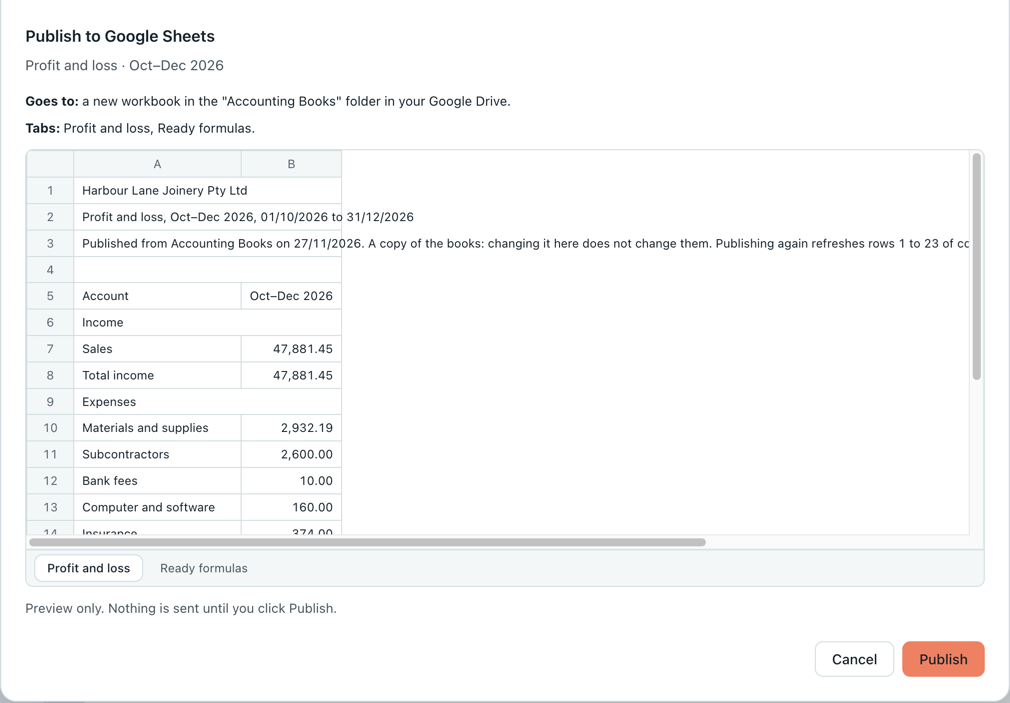
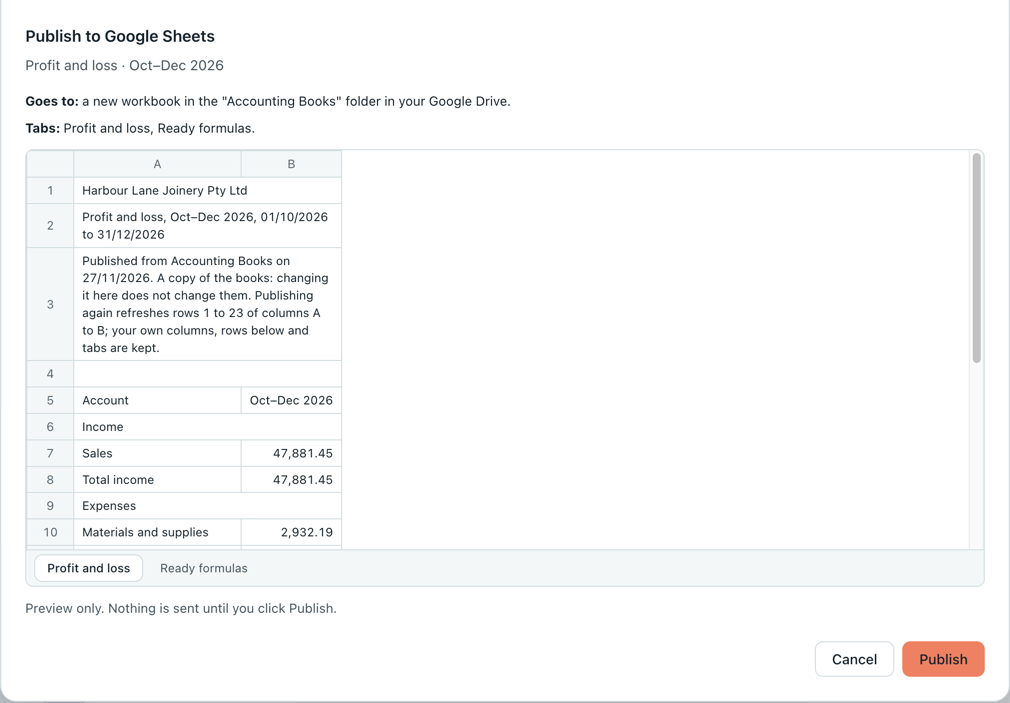
Folder 09: preview headings wrap, layout sweep opens the publish preview, records

Changed region(s): [[0.0307, 0.2987, 0.9515, 0.7767], [0.9515, 0.5078, 0.9822, 0.5377], [0.0307, 0.2987, 0.0614, 0.3286]]

diff --git a/tests/layout/layout-sweep.spec.ts b/tests/layout/layout-sweep.spec.ts
@@ -157,6 +157,14 @@ test('no page, sheet or panel breaks at any window size', async () => {
     await page.getByRole('button', { name: 'Customise' }).click();
     await page.locator('.side-panel').waitFor();
     problems.push(...(await problemsOn(page, 'customise-panel', size)));
+    await page.getByRole('button', { name: 'Customise' }).click();
+
+    // Folder 09: the publish preview, which needs no Google account.
+    await page.getByRole('button', { name: 'Publish to Google Sheets' }).click();
+    await page.getByText('Goes to: ').waitFor();
+    problems.push(...(await problemsOn(page, 'publish-sheet', size)));
+    await page.keyboard.press('Escape');
+    await page.getByRole('dialog').waitFor({ state: 'detached' });
 
     // Folder 07: the rule panel, a new account, and reconciling.
     await go(page, '#/rules');

diff --git a/src/renderer/sheets/sheets.css b/src/renderer/sheets/sheets.css
@@ -160,16 +160,18 @@
   font-size: var(--font-size-label);
 }
 
-.sheet-grid__cell--spill {
+.sheet-grid__table .sheet-grid__cell--spill {
   max-width: none;
-  overflow: visible;
+  white-space: normal;
 }
 
-/* Takes no width, so a long heading never widens column A; it runs over the empty cells. */
+/* Adds no width of its own, so a long heading never widens column A: it runs over the empty
+   cells, and wraps at the grid's edge instead of being cut off. */
 .sheet-grid__spill {
   display: block;
   width: 0;
-  overflow: visible;
+  min-width: 100%;
+  white-space: normal;
 }
 
 .ready {

diff --git a/context/progress-tracker.md b/context/progress-tracker.md
@@ -6,7 +6,7 @@ Update this file whenever the current phase, the active spec or the implementati
 
 ## Current Phase
 
-- **Folder 09, Demo 7, Google Sheets (2026-11-27): in progress** on branch `feature/09-demo-7-google-sheets`, from folder 08's `998c3ea`. The author asked for folders 09 and 10 to be finished without supervision. Google is built against an in-memory Google and a fake `fetch`; every check against real Google waits for the author's console steps in spec 106.
+- **Folder 09, Demo 7, Google Sheets (2026-11-27): built, demo not yet held** on branch `feature/09-demo-7-google-sheets`, from folder 08's `998c3ea`. Specs 105 to 120 built and committed; 121 prepared (`demo-scripts/demo-7-google-sheets.md`, not committed, at the author's request). Connect Google, publish a report or the transactions with a sheet-style preview, publish again keeping his work, ready formulas, share by person, the two-minute read-back of the accountant's edits as proposals, accept or reject, the sheet inside the app, side by side, five guides. Migrations 0013 and 0014. **Built against an in-memory Google and a fake `fetch`: every check against real Google waits for the author's console steps in spec 106.**
 - **Folder 08, Demo 6, reports and the BAS (2026-11-26): built, demo not yet held** on branch `feature/08-demo-6-reports-and-bas`, from folder 07's `8f462d7`. Specs 089 to 103 built, 104 prepared (`demo-scripts/demo-6-reports-and-bas.md`). Profit and loss, balance sheet, trial balance and the BAS worksheet, every figure opening its lines; closing and locking a quarter; CSV and PDF export; customising the profit and loss, his own columns, and My reports. Migration 0012. Impeccable passes skipped at the author's request. Committed on its branch, not pushed.
 - **Folder 07, Demo 5, rules and reconciling (2026-11-26): built, demo not yet held** on branch `feature/07-demo-5-rules-and-reconcile`, from folder 06's `f0dc650`. Specs 078 to 087 built, 088 prepared (`demo-scripts/demo-5-rules-and-reconciling.md`). Bank rules (list, editor with Test, from a line, posting by themselves on import), changing the account of posted transactions, New account and Edit, and reconciling to a statement. Migration 0011. Impeccable passes skipped at the author's request. Committed on its branch, not pushed.
 - **Folder 06, Demo 4, To review (2026-11-25): built, demo not yet held** on branch `feature/06-demo-4-to-review`, from `0a51eb3`. Specs 068 to 076 and a new 069a (match a line to an entry already in the books) are built, and 077 is prepared (`demo-scripts/demo-4-categorising.md`). The client can post a waiting bank line with an account and GST code (one, ticked, or every suggested one), match it to an entry already in the books, split it, mark a transfer between his accounts, save a From/To that fills in other lines, see suggestions from past lines, and undo the last post. Migration 0010. Nothing is committed yet. Decisions taken where the specs left room are in Follow-ups, for the author.
@@ -38,6 +38,7 @@ Update this file whenever the current phase, the active spec or the implementati
 | W02 | [Wireframe Design Context](feature-specs/W-wireframes/W02-wireframe-design-context.md) | Written from the context files. No screenshots were supplied, so there are none to check |
 | W08 | [Wireframe: Invoices and Bills](feature-specs/W-wireframes/W08-wireframe-invoices-and-bills.md), if question 1 says so | W |
 | 029 | [Demo 1: The App Opens](feature-specs/02-demo-1-the-app-opens/029-demo-1.md), skipped while the ledger core and Demo 2 were built | 02 |
+| 121 | [Demo 7](feature-specs/09-demo-7-google-sheets/121-demo-7.md) | Script with two test Google accounts; the walk driven against the in-memory Google | Prepared (demo not held, not committed) | 2026-11-27 |
 | 120 | [Guides: Google Sheets](feature-specs/09-demo-7-google-sheets/120-guide-sharing.md) | Five guides, a new Help group, seven images; two guides updated | Done | 2026-11-27 |
 | 119 | [Open Side by Side](feature-specs/09-demo-7-google-sheets/119-side-by-side.md) | Opens it in the browser and says how the Mac tiles two windows | Implemented, real-Google check waits for 106 | 2026-11-27 |
 | 118 | [Google Sheet Inside the App](feature-specs/09-demo-7-google-sheets/118-in-app-sheet.md) | Isolated view, Google pages only, setting off by default, fallback to Chrome | Implemented, sign-in check waits for 106 | 2026-11-27 |
@@ -188,6 +189,11 @@ Things found during work that are not part of the current spec. Each has an owne
 
 | Item | Found in | Due before | Status |
 |---|---|---|---|
+| **Do spec 106's Google Cloud console steps**, put the client id in `.env`, and run `npm run google:check`. Then every "not checked" item in specs 107 to 121's progress files can be run with the two test accounts | 106 | Demo 7 | Open, for the author |
+| **Review folder 09's choices (2026-11-27), for the author:** (1) plain `fetch`, no Google library; (2) the gate "107 waits for 106" was passed over, at the author's request to finish unsupervised, building against an in-memory Google (`GOOGLE_FAKE=1`, development only); (3) a workbook per report and period, the period pinned to the whole quarter or year, named "Profit and loss · Oct–Dec 2026"; (4) the Transactions workbook (from the Transactions page) is the one that brings changes back, with a Ref column holding the entry id; (5) the client's tabs found by a hidden marker; (6) "Connected as" from Drive's `about`; (7) the sheet inside the app is off until ticked, and kept in `app_meta`; (8) accepting an account change keeps the line's GST code; (9) a whole quarter or year typed as custom days is now labelled as the quarter or year on screen too | 105 to 121 | Demo 7 | Open, for the author |
+| "Open in Chrome" (the wireframe's words) opens the default browser | 118 | Demo 7 | Open, for the author |
+| The Transactions history panel does not say an accepted change came from the accountant (the audit row `accountant-change.accept` has it) | 117 | Client feedback at Demo 7 | Open |
+| Disconnect does not mark sheet links in the books as disconnected (`security-context.md`, "Google Access"): the links stay, and nothing reaches Google without a connection. Decide whether a mark is wanted | 108 | Folder 12 security review (142) | Open |
 | **Review folder 08's choices (2026-11-26), for the author:** (1) every report is one format, asked for with a request and drawn by one screen, and exported from the same figures; (2) "this quarter" and "this financial year" run to today; last ones are whole; (3) the trial balance is as at the period's end from the start of the books; (4) Customise and My reports are for the profit and loss only; "small expenses" are under 2% of income; (5) cash basis assumed (question 3); on accrual the same lines count until invoices exist; (6) no unlock (question 20); (7) the close page closes the business's BAS period (a month for a monthly business); (8) Export CSV and PDF sit beside the period, so the toolbar fits at 1100 | 089 to 103 | Folder 09 | Open, for the author |
 | Look at a PDF export of each report at A4, and open a CSV export in Numbers, by hand (both were only checked to be written) | 098, 099 | Demo 6 | Open, for the author |
 | **Review folder 07's choices (2026-11-26), for the author:** (1) Rules in the sidebar after Reports is Command-7, so Settings moved to **Command-comma** (the Mac's Settings key) and Accountant changes to Command-9; (2) a rule names one bank account or all of them (the data allows several; the panel offers one); (3) the "Do this every time?" offer comes after the same words went to the same account twice, using the first word of 4 or more letters; (4) "post by itself" skips lines that match an entry already in the books; (5) Transactions: the account changes through **Change** (a picker on asking) and ticking needs **Select**, so the table fits at 1100; the new GST code is the new account's usual one; (6) reconciling counts only posted lines, a matched-but-waiting line does not explain a difference, and a reconciled line cannot be undone from To review; (7) three invented sample rules, none posting by itself | 078 to 087 | Folder 08 | Open, for the author |
@@ -275,6 +281,7 @@ Things a newcomer would trip over.
 
 One or two lines per working session, newest first: what was done, what was measured, what was deferred.
 
+- **2026-11-27 (Demo 7, 105 to 121):** On `feature/09-demo-7-google-sheets`. Built Google sign-in, publishing with a preview, sharing, ready formulas, the read-back and accept, the in-app panel and side by side, five guides; migrations 0013 and 0014. Checked: `npm run check` (1,220 tests), format, `npm run test:layout` (now with the publish preview), `npm run test:e2e`, the invariants, and every flow driven in the built app with the in-memory Google, at 1100 and 1440, light and dark. The GST guard caught a second copy of one eleventh; moved into `gst.ts`. The sweep caught the preview's headings cut off; fixed. Not done: anything against real Google (spec 106 waits for the author), the client demo.
 - **2026-11-27 (Impeccable pass on folders 07 and 08):** On `feature/08-demo-6-reports-and-bas`. Critique and audit from the layout sweep's screenshots at four widths and the detector (clean). Fixed two P1 and one P2 (see Follow-ups), retook two guide images. Checked: `npm run check`, format, `npm run test:layout`. Not done: dark theme looked at only through the unchanged tokens; Impeccable `polish` on every screen.
 - **2026-11-26 (Demo 6, 089 to 104):** On `feature/08-demo-6-reports-and-bas`. Built the reports, the BAS worksheet, closing and locking, CSV and PDF export, customising, his own columns and saved reports; migration 0012; four guides; the Demo 6 script. Checked: `npm run check` (1,130 tests), format, layout sweep (all report pages), `npm run test:e2e` (now saves a report and locks the quarter), the walk driven in the built app (CSV read back, a real PDF written, BAS $785.16). A test caught the trial balance's lines being added the wrong way round for a debit equity account; fixed. Looking at 1100 caught the report toolbar overflowing; fixed. Not done: Impeccable passes, looking at the PDF and CSV by eye, the client demo.
 - **2026-11-26 (Demo 5, 078 to 088):** On `feature/07-demo-5-rules-and-reconcile`. Built rules end to end, fixing posted entries, managing accounts and reconciling; migration 0011; three guides; the Demo 5 file and script. Checked: `npm run check` (1,092 tests), format, layout sweep (new pages and sheets), `npm run test:e2e` (now reconciles), the Demo 5 walk driven in the built app (offer, prefilled rule, Test, Option-up, rules posting on import). The sweep caught Transactions scrolling sideways at 1100 once the account picker and tick boxes were added; fixed with Change and Select. Not done: Impeccable passes (skipped at the author's request), Home's count of rule posts, the client demo.

diff --git a/CLAUDE.md b/CLAUDE.md
@@ -8,7 +8,7 @@ A private accounting app for the Mac, built for one client: an Australian small 
 
 - **Goals:** correct books that always balance. The client can do his bookkeeping without QuickBooks. The accountant gets the sheets he needs, with the access the client chooses. Nothing leaves the Mac unless the client asks for it.
 - **Out of scope:** web app or server, accounts and logins inside the app, ATO lodgement (BAS e-lodge, STP), payroll, taking payments, live bank feeds, and every "scale version" feature (licensing, many clients, other banks). See `context/project-overview.md`.
-- **Current focus:** the wireframes are signed off (W11). Demo 1 (folder 02, specs 020 to 028), the ledger core (folder 03, specs 030 to 045) and the Demo 2 sample book (folder 04, specs 046 to 053) are built and committed. Importing a Westpac OFX file (folder 05, specs 055 to 066) is built on branch `feature/05-demo-3-bank-import`, except the CSV reader (059), which waits for client question 16. To review (folder 06, specs 068 to 076, with a new 069a, match a line to an entry already in the books) is built on branch `feature/06-demo-4-to-review`. Rules, fixing posted entries, managing accounts and reconciling (folder 07, specs 078 to 087) are built on `feature/07-demo-5-rules-and-reconcile`. Reports, the BAS worksheet, closing and locking a quarter, exports and his own reports (folder 08, specs 089 to 103) are built on `feature/08-demo-6-reports-and-bas`. The Demo 2 to Demo 6 demos (054, 067, 077, 088, 104) are prepared, and not yet held. The UI skills Impeccable and UI UX Pro Max are installed (W01a, W01b). The client sees the app grow in 9 demos (`context/feature-specs/README.md`). Progress is in `context/progress-tracker.md`.
+- **Current focus:** the wireframes are signed off (W11). Demo 1 (folder 02, specs 020 to 028), the ledger core (folder 03, specs 030 to 045) and the Demo 2 sample book (folder 04, specs 046 to 053) are built and committed. Importing a Westpac OFX file (folder 05, specs 055 to 066) is built on branch `feature/05-demo-3-bank-import`, except the CSV reader (059), which waits for client question 16. To review (folder 06, specs 068 to 076, with a new 069a, match a line to an entry already in the books) is built on branch `feature/06-demo-4-to-review`. Rules, fixing posted entries, managing accounts and reconciling (folder 07, specs 078 to 087) are built on `feature/07-demo-5-rules-and-reconcile`. Reports, the BAS worksheet, closing and locking a quarter, exports and his own reports (folder 08, specs 089 to 103) are built on `feature/08-demo-6-reports-and-bas`. Google Sheets (folder 09, specs 105 to 120: connect, publish with a preview, share, ready formulas, the accountant's changes, the sheet inside the app) is built on `feature/09-demo-7-google-sheets` against an in-memory Google; every check against real Google waits for the author's Google Cloud steps in spec 106. The Demo 2 to Demo 7 demos (054, 067, 077, 088, 104, 121) are prepared, and not yet held. The UI skills Impeccable and UI UX Pro Max are installed (W01a, W01b). The client sees the app grow in 9 demos (`context/feature-specs/README.md`). Progress is in `context/progress-tracker.md`.
 
 **Hard rules.** Never break these. If a task seems to need it, stop and ask.
 
